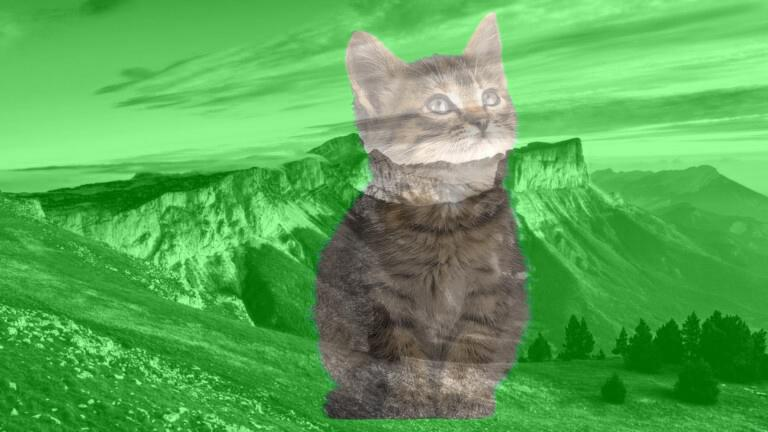
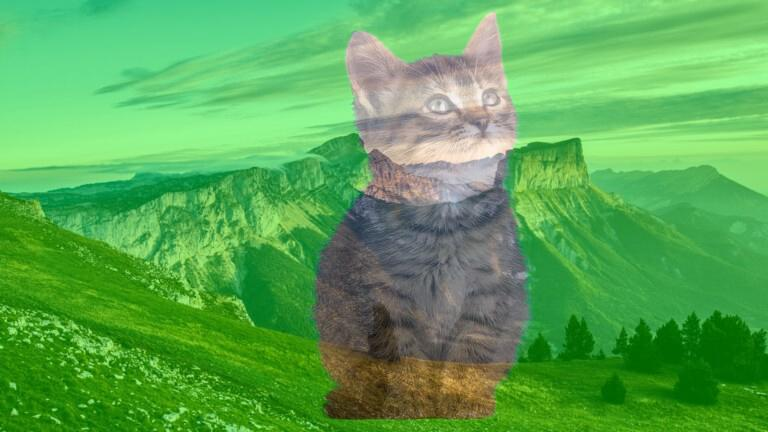
Implemented exercise 10

diff --git a/image_processing.py b/image_processing.py
@@ -101,7 +101,7 @@ def do_exercise_8(light_ammount: int):
 def do_exercise_9(percentage_first_image: int):
     percentage_second_image = 100 - percentage_first_image
 
-    def add_light(a, b):
+    def combine_pixels(a, b):
         return min(
             int(a) * percentage_first_image / 100
             + int(b) * percentage_second_image / 100,
@@ -115,11 +115,23 @@ def do_exercise_9(percentage_first_image: int):
     for i in range(array1.shape[0]):
         for j in range(array2.shape[1]):
             array1[i][j] = [
-                add_light(array1[i][j][0], array2[i][j][0]),
-                add_light(array1[i][j][1], array2[i][j][0]),
-                add_light(array1[i][j][2], array2[i][j][0]),
+                combine_pixels(array1[i][j][0], array2[i][j][0]),
+                combine_pixels(array1[i][j][1], array2[i][j][1]),
+                combine_pixels(array1[i][j][2], array2[i][j][2]),
             ]
     Image.fromarray(array1).save("./output/ex9_combine_images.jpeg")
+
+
+def do_exercice_10():
+    image1 = Image.open("./images/chat-vert.jpg")
+    image2 = Image.open("./images/fond-pour-chat-vert.jpg")
+
+    array1 = np.array(image1)
+    array2 = np.array(image2)
+    for i in range(array1.shape[0]):
+        for j in range(array2.shape[1]):
+            array1[i][j] = array1[i][j] if array1[i][j][1] != 255 else array2[i][j]
+    Image.fromarray(array1).save("./output/ex10_green_background.jpeg")
 
 
 def do_convolution(matrix: np.ndarray, pattern: np.ndarray):
@@ -150,3 +162,4 @@ if __name__ == "__main__":
     # do_exercise_7()
     # do_exercise_8(120)
     do_exercise_9(40)
+    do_exercice_10()
